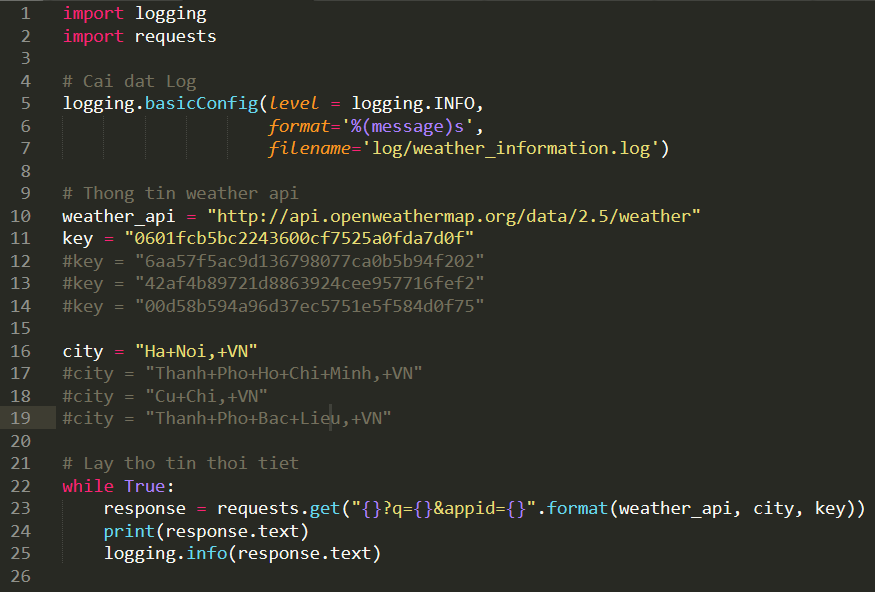
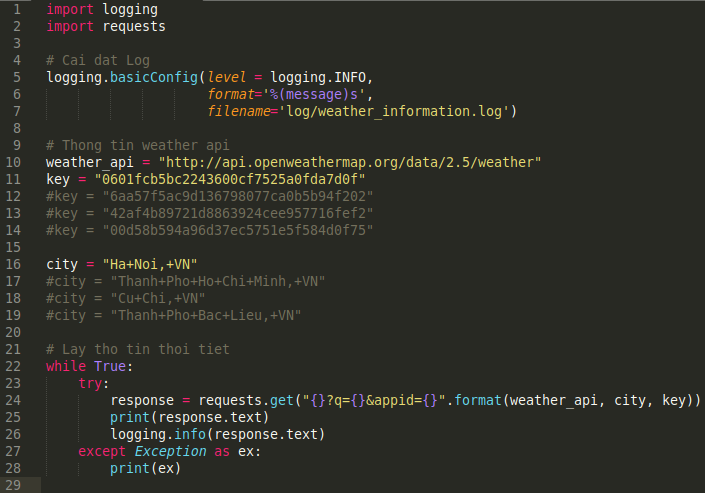
Fix bug: case error when get api

Changed region(s): [[0.0624, 0.0, 0.9986, 0.9736], [0.0, 0.0, 0.0312, 1.0]]

diff --git a/weather/main.py b/weather/main.py
@@ -20,6 +20,9 @@ city = "Ha+Noi,+VN"
 
 # Lay tho tin thoi tiet
 while True:
-    response = requests.get("{}?q={}&appid={}".format(weather_api, city, key))
-    print(response.text)
-    logging.info(response.text)
+    try:
+        response = requests.get("{}?q={}&appid={}".format(weather_api, city, key))
+        print(response.text)
+        logging.info(response.text)        
+    except Exception as ex:
+        print(ex)
